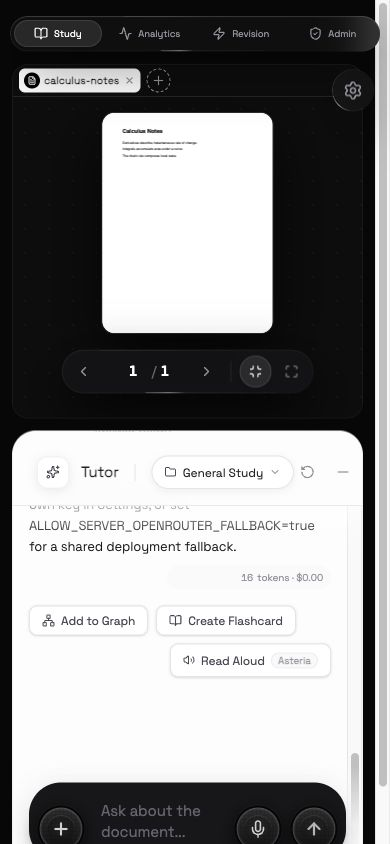
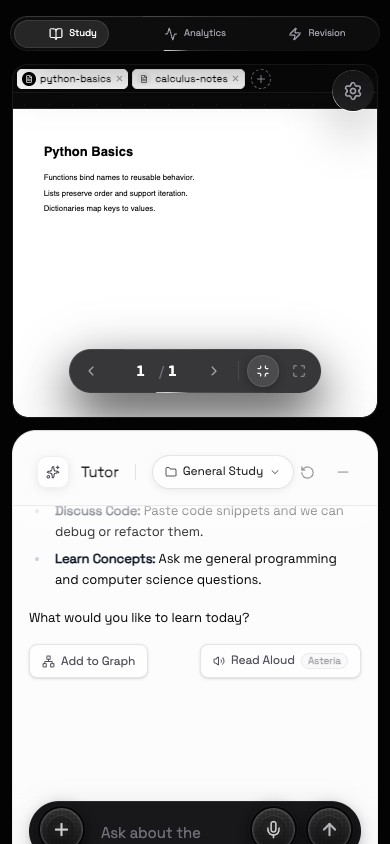
Tighten Study PDF document toolbar

diff --git a/src/views/StudyView.tsx b/src/views/StudyView.tsx
@@ -1096,35 +1096,37 @@ export function StudyView() {
             <div
               role="toolbar"
               aria-label="PDF documents"
-              className="relative flex h-8 shrink-0 items-center gap-1 border-b border-white/10 bg-[#0A0A0B] px-1.5 md:px-2"
+              data-testid="pdf-document-toolbar"
+              className="relative z-0 flex h-7 shrink-0 items-center gap-1 border-b border-white/[0.07] bg-[#080809] px-1 shadow-none"
             >
-              <div className="flex min-w-0 max-w-[calc(100%-2rem)] flex-none gap-1 overflow-x-auto pr-0.5 custom-scroll">
+              <div className="flex min-w-0 max-w-[calc(100%-1.75rem)] flex-none gap-1 overflow-x-auto pr-0.5 custom-scroll">
                 {orderedDocuments.map((document) => (
                   <div
                     key={document.id}
-                    className={`group flex h-6 max-w-[8.5rem] shrink-0 items-center rounded-md border pr-0.5 shadow-none transition-colors md:max-w-[10rem] ${
+                    data-testid="pdf-document-chip"
+                    className={`group flex h-5 max-w-[7.5rem] shrink-0 items-center rounded-[5px] border pr-px shadow-none transition-colors md:max-w-[9rem] ${
                       document.id === activeDocumentId
                         ? "border-white bg-white text-black"
-                        : "border-zinc-200 bg-white text-black hover:border-white"
+                        : "border-zinc-300 bg-white text-black hover:border-white"
                     }`}
                   >
                     <button
                       type="button"
                       onClick={() => void selectDocument(document)}
-                      className="flex h-full min-w-0 flex-1 items-center gap-1 pl-1 pr-0.5 text-left focus:outline-none"
+                      className="flex h-full min-w-0 flex-1 items-center gap-1 pl-1 pr-px text-left focus:outline-none"
                       title={document.title}
                     >
                       <span
-                        className={`flex h-4 w-4 shrink-0 items-center justify-center rounded-full ${
+                        className={`flex h-3.5 w-3.5 shrink-0 items-center justify-center rounded-full ${
                           document.id === activeDocumentId
                             ? "bg-black text-white"
                             : "bg-zinc-100 text-zinc-700"
                         }`}
                       >
-                        <FileText size={9} strokeWidth={2.2} />
+                        <FileText size={8} strokeWidth={2.2} />
                       </span>
                       <span className="min-w-0">
-                        <span className="block truncate text-[0.65rem] font-semibold leading-none tracking-normal">
+                        <span className="block truncate text-[0.625rem] font-semibold leading-none tracking-normal">
                           {document.title}
                         </span>
                       </span>
@@ -1134,9 +1136,9 @@ export function StudyView() {
                       onClick={() => void removeDocument(document.id)}
                       aria-label={`Remove ${document.title}`}
                       title={`Remove ${document.title}`}
-                      className="flex h-4 w-4 shrink-0 items-center justify-center rounded-full text-zinc-400 transition-colors hover:bg-zinc-200 hover:text-zinc-700 focus:outline-none"
+                      className="flex h-3.5 w-3.5 shrink-0 items-center justify-center rounded-full text-zinc-400 shadow-none transition-colors hover:bg-zinc-200 hover:text-zinc-800 focus:outline-none"
                     >
-                      <X size={10} strokeWidth={2.5} />
+                      <X size={9} strokeWidth={2.5} />
                     </button>
                   </div>
                 ))}
@@ -1146,9 +1148,9 @@ export function StudyView() {
                 onClick={openFilePicker}
                 aria-label="Add PDF"
                 title="Add PDF"
-                className="flex h-6 w-6 shrink-0 items-center justify-center rounded-full border border-dashed border-zinc-400 bg-transparent text-zinc-400 shadow-none transition-colors hover:border-zinc-200 hover:bg-white hover:text-zinc-700 focus:outline-none"
+                className="flex h-5 w-5 shrink-0 items-center justify-center rounded-full border border-dashed border-zinc-500 bg-transparent text-zinc-400 shadow-none transition-colors hover:border-zinc-200 hover:bg-white hover:text-zinc-800 focus:outline-none"
               >
-                <Plus size={14} strokeWidth={1.9} />
+                <Plus size={12} strokeWidth={1.9} />
               </button>
             </div>
             <input
@@ -1159,7 +1161,10 @@ export function StudyView() {
               className="hidden"
               onChange={handleFileChange}
             />
-            <div className="relative min-h-0 flex-1 overflow-hidden">
+            <div
+              data-testid="pdf-reader-region"
+              className="relative z-0 min-h-0 flex-1 overflow-hidden"
+            >
               <PdfViewer />
             </div>
           </>

diff --git a/tests/rendered-study-view-flows.test.tsx b/tests/rendered-study-view-flows.test.tsx
@@ -320,6 +320,23 @@ describe("rendered StudyView flows", () => {
     expect(useStore.getState().activeDocumentId).toBe(documents[0].id);
   });
 
+  it("keeps the compact PDF document toolbar outside the reader region", async () => {
+    await seedStudyBook(["Compact document"]);
+
+    renderStudyView();
+    await waitForPdfView();
+
+    const toolbar = screen.getByTestId("pdf-document-toolbar");
+    const readerRegion = screen.getByTestId("pdf-reader-region");
+
+    expect(toolbar).toHaveClass("h-7", "shrink-0", "shadow-none");
+    expect(readerRegion).toHaveClass("min-h-0", "flex-1", "overflow-hidden");
+    expect(
+      toolbar.compareDocumentPosition(readerRegion) &
+        Node.DOCUMENT_POSITION_FOLLOWING,
+    ).toBeTruthy();
+  });
+
   it("uploads a PDF through the picker and completes mocked ingestion", async () => {
     const { book } = await seedStudyBook([]);
     useStore.setState({ selectedTextContext: "clear on upload" });

diff --git a/.workflow/study-view-fixes/results/C-study-pdf.md b/.workflow/study-view-fixes/results/C-study-pdf.md
@@ -12,9 +12,10 @@ Findings from the read-only lane were applied:
 
 ## Compact PDF Toolbar Follow-up
 
-- Reduced the desktop and mobile document rail to 32px.
-- Reduced PDF chips and the dashed add control to 24px.
+- Reduced the desktop and mobile document rail to 28px.
+- Reduced PDF chips and the dashed add control to 20px.
 - Kept PDF titles on a white surface with black text and a compact remove button.
-- Removed chip and Study reader shell shadows.
-- Kept the toolbar in normal layout flow above a clipped PDF region so it cannot cover the document.
-- Browser geometry checks passed at 1280x720 and 390x844 with zero toolbar/PDF overlap and zero horizontal overflow.
+- Removed toolbar, chip, add-control, and Study reader shell shadows.
+- Kept the toolbar as a non-floating sibling above an explicitly clipped PDF reader region so it cannot cover the document.
+- Added rendered coverage that asserts the toolbar precedes the PDF reader region in document flow.
+- Live geometry checks passed at 1280x800 and 390x844 with two PDFs, a working add control, zero toolbar/PDF overlap, zero horizontal overflow, and zero console issues.

diff --git a/.workflow/study-view-fixes/final-report.md b/.workflow/study-view-fixes/final-report.md
@@ -29,12 +29,14 @@ Implemented the Study/Revision/Chat synchronization upgrade end to end.
 ## Verification Evidence
 
 - `npm run lint`: passed.
-- Focused Study test command: passed, including 255 node tests and 13 rendered StudyView tests.
+- Focused Study test command: passed with 14 rendered StudyView tests.
+- Full test suite: passed with 255 node tests and 585 rendered DOM tests.
 - `npm run build`: passed.
 - Browser QA at `http://127.0.0.1:3100`: passed on desktop and mobile with zero console errors and zero horizontal overflow.
 - Browser QA validated: PDF upload, second PDF add, PDF switch, current PDF removal, Python book chat restore after refresh, switch back to General Study chat, mobile viewport.
-- Compact PDF toolbar follow-up: passed focused Study tests, lint, build, and live geometry checks at 1280x720 and 390x844.
-- Compact PDF toolbar measurements: 32px rail, 24px chip/add control, white background, black text, no computed shadow, and zero overlap with the PDF region.
+- Compact PDF toolbar follow-up: passed focused Study tests, full tests, lint, build, and live geometry checks at 1280x800 and 390x844.
+- Compact PDF toolbar measurements: 28px rail, 20px chip/add control, white background, black text, no computed shadow, and zero overlap with the PDF region.
+- The in-app Browser inspection timed out on this large Study page, so the final rendered geometry and screenshots were captured with the bundled Playwright runtime and system Chrome.
 
 ## Screenshots
 